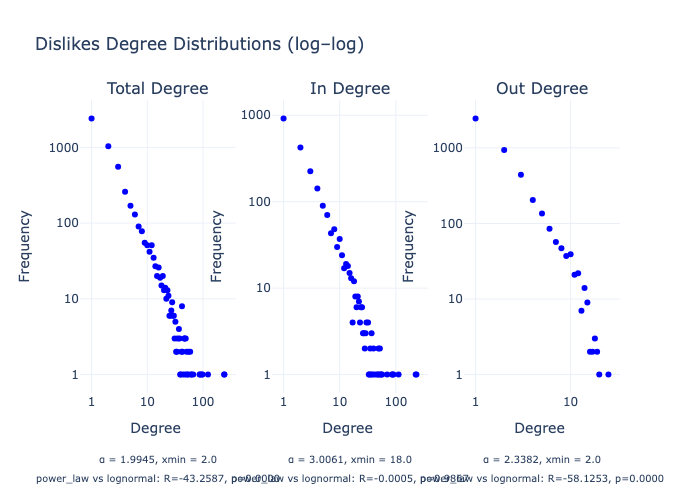
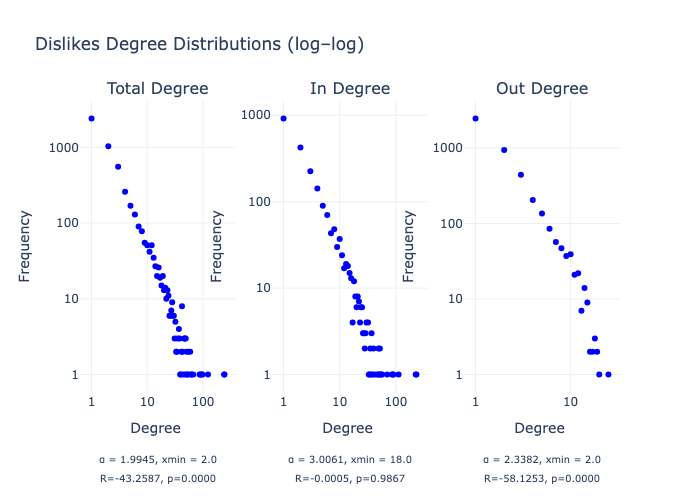
reduced caption text for power law visuals

Changed region(s): [[0.06, 0.93, 0.96, 0.99]]

diff --git a/analysis.py b/analysis.py
@@ -125,7 +125,7 @@ def fit_powerlaw(seq, plot=False):
     # print(f"{label} : α = {α:.4f}, xmin = {xmin},  power_law vs lognormal: R={R:.4f}, p={p:.4f}")
     # print("-"*50)
 
-    calculated = f"<br>α = {α:.4f}, xmin = {xmin}<br>power_law vs lognormal: R={R:.4f}, p={p:.4f}"
+    calculated = f"<br>α = {α:.4f}, xmin = {xmin}<br>R={R:.4f}, p={p:.4f}"
 
     return calculated
 
